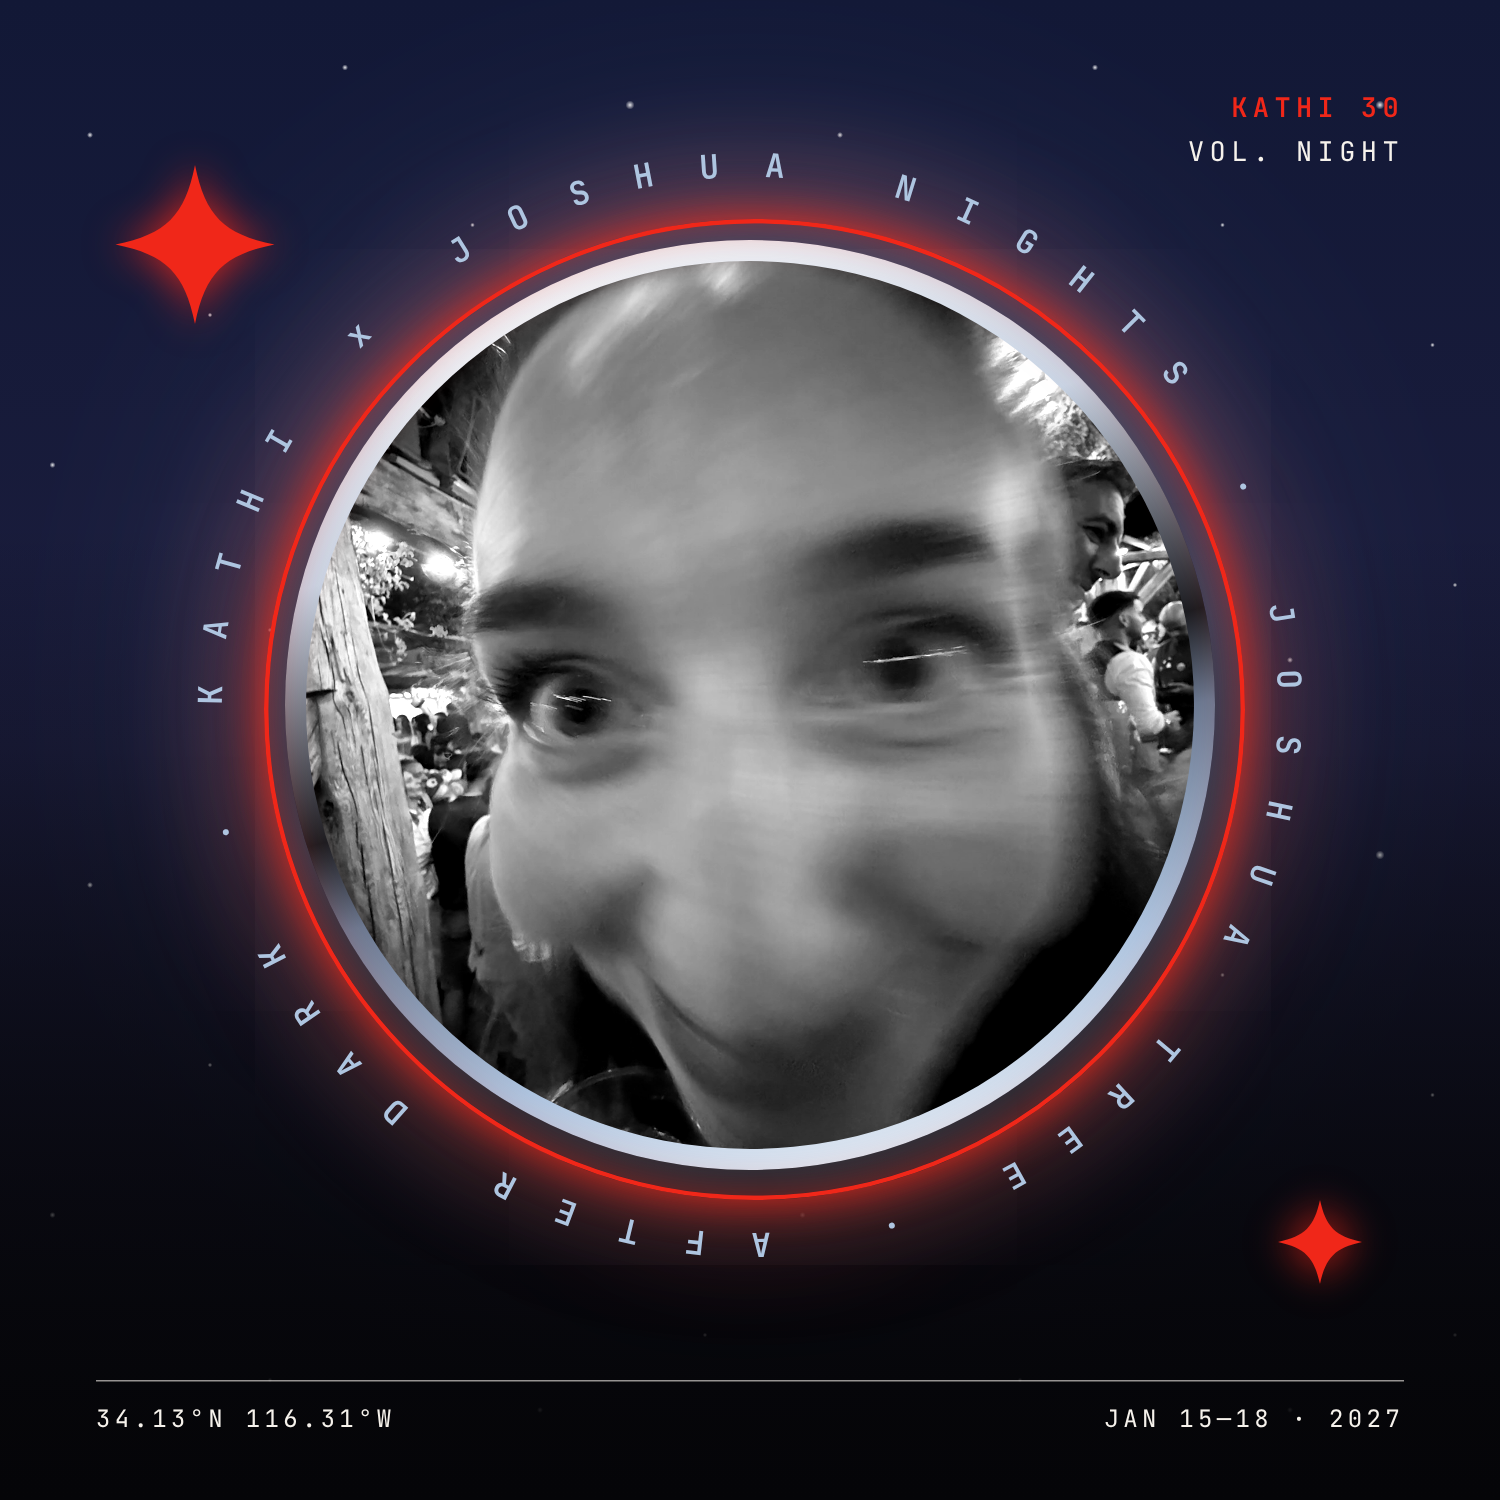
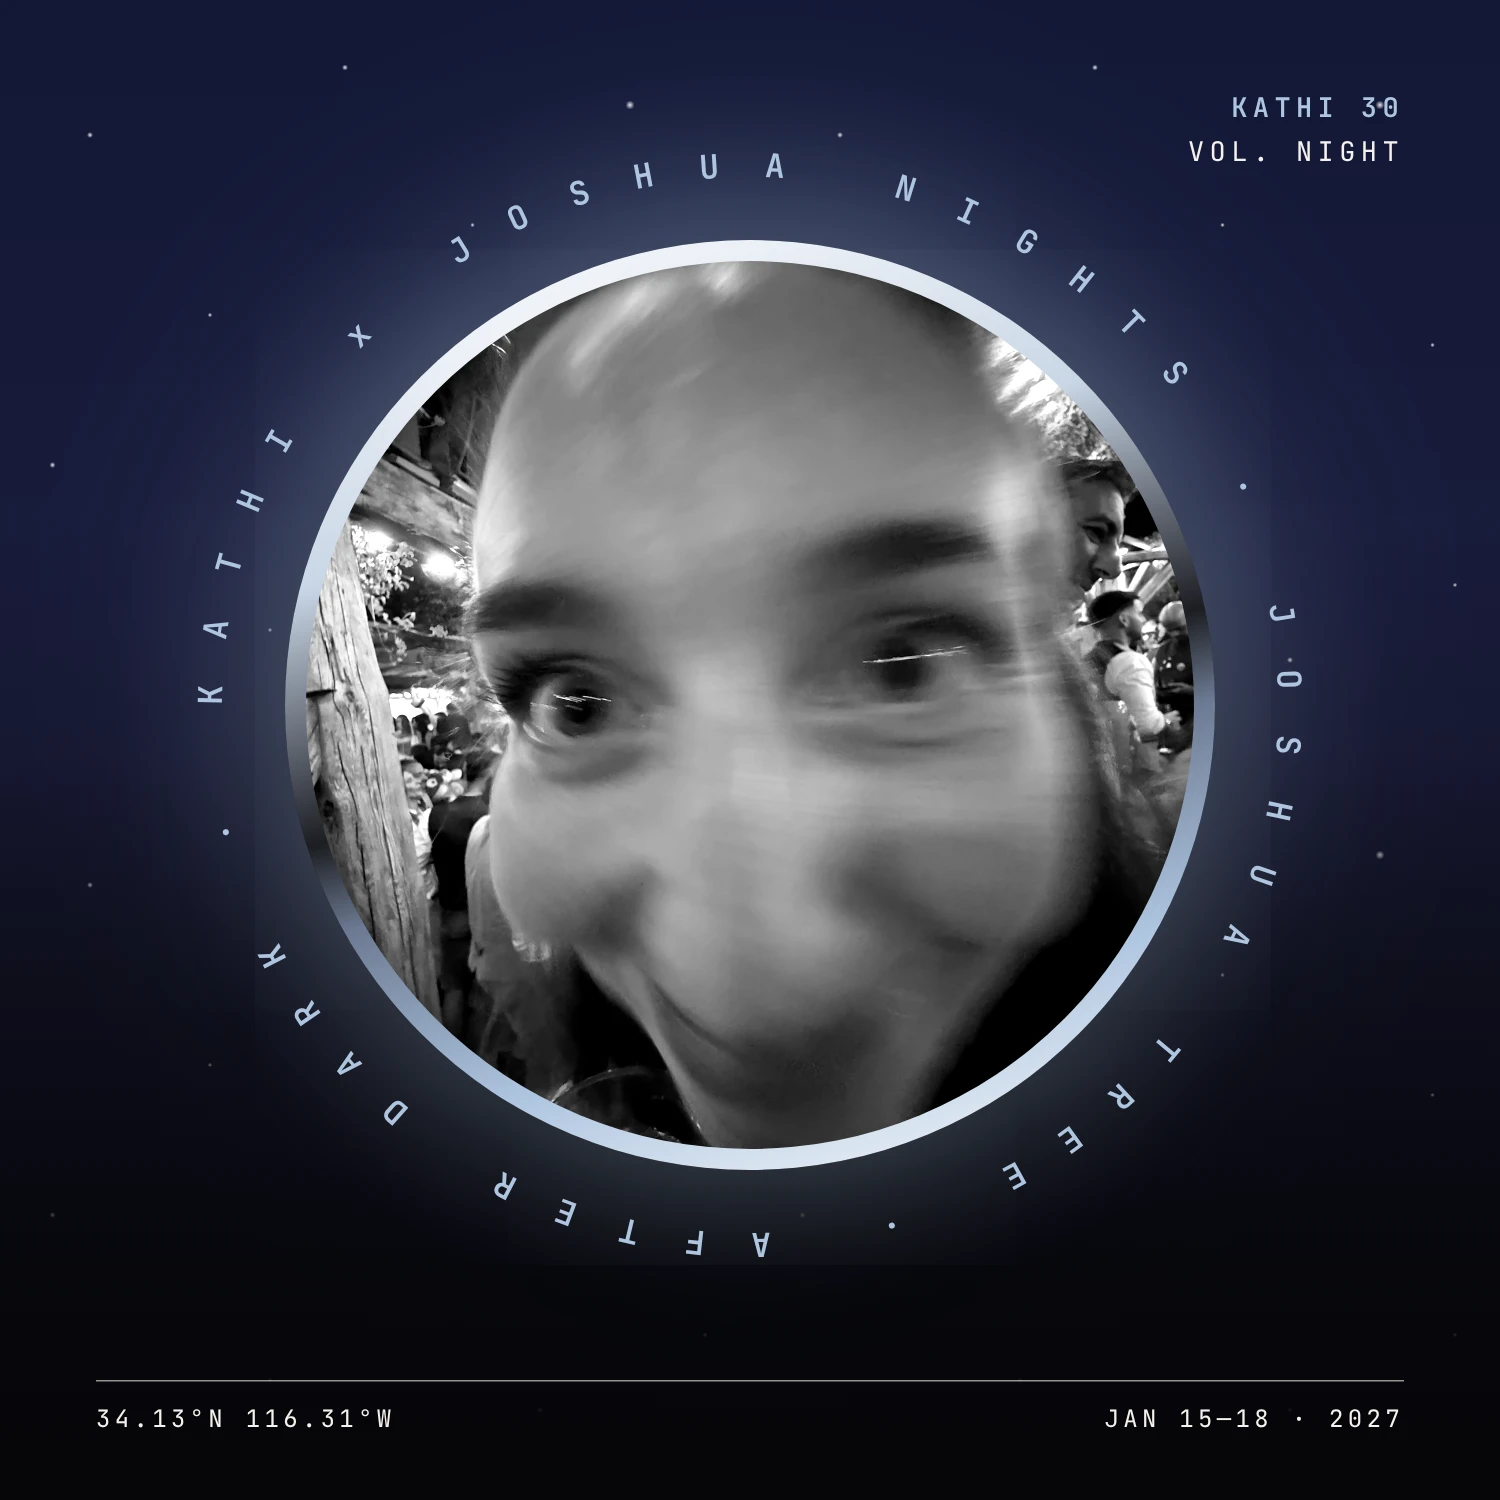
Night cover: back to the black-fade version (no red)
Claude-Session: https://claude.ai/code/session_015srq9B7aamxsEMEASfp4Nc

diff --git a/site/index.html b/site/index.html
@@ -228,7 +228,7 @@
         <span class="mono-plain ls1">🌙 NIGHT PLAYLIST</span>
         <span class="pl-title chrome-soft-text">kathi x joshua nights</span>
         <span class="body16">Dinner → dance floor → 2am singalongs. Bangers only, guilty pleasures encouraged.</span>
-        <a data-href="nightPlaylistUrl" target="_blank" rel="noopener" class="cover"><img src="assets/cover-nights.jpg?v=26" alt="Night playlist cover" loading="lazy" width="800" height="800"></a>
+        <a data-href="nightPlaylistUrl" target="_blank" rel="noopener" class="cover"><img src="assets/cover-nights.jpg?v=27" alt="Night playlist cover" loading="lazy" width="800" height="800"></a>
         <a data-href="nightPlaylistUrl" target="_blank" rel="noopener" class="btn-sm btn-chrome mono self-start">add your song →</a>
       </div>
     </div>
